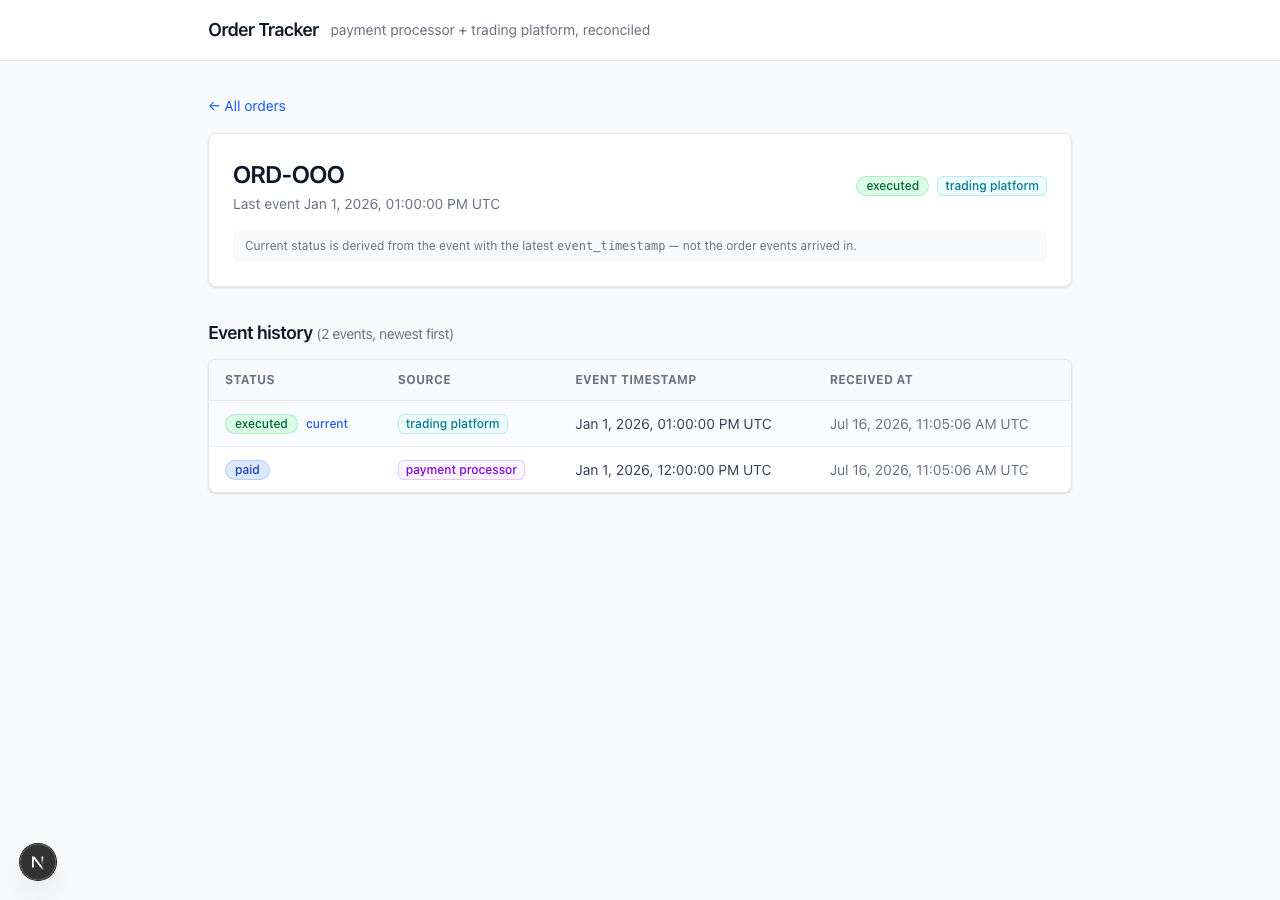
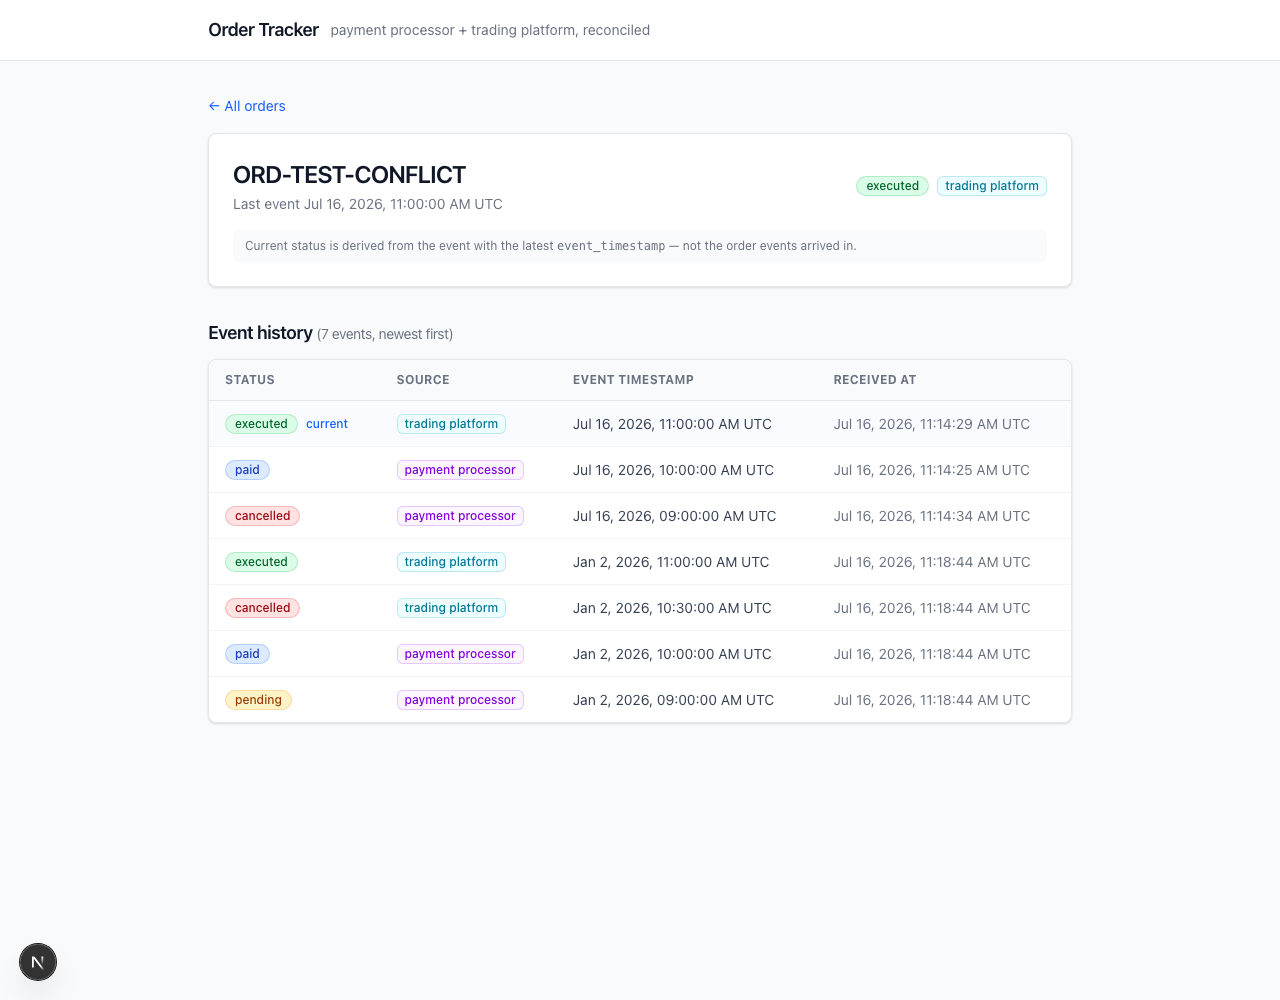
Final submission: all tests passing, duplicates/out-of-order/conflicts verified
- Honest time-spent breakdown in README (~1 hour, AI-assisted)
- Fresh screenshots: 9-order list, ORD-TEST-CONFLICT detail with 7-event
  history and winning event highlighted

diff --git a/README.md b/README.md
@@ -153,8 +153,14 @@ echo 'NEXT_PUBLIC_API_URL=http://localhost:8001/api' > order-tracker-ui/.env.loc
 
 ## Time Spent
 
-~3 hours total: backend models/ingestion/tests ≈ 1.5 h, frontend ≈ 1 h,
-smoke-testing both failure modes end-to-end + docs ≈ 0.5 h.
+~1 hour total, AI-assisted (built with Claude Code):
+
+- Project setup (Postgres via Docker, Django scaffold, Next.js scaffold) ≈ 15 min
+- Backend models, ingestion/reconciliation logic, 13 tests ≈ 20 min
+- Frontend list + detail pages ≈ 10 min
+- End-to-end verification (duplicate/out-of-order/conflict scenarios against
+  the live API, browser screenshots) + debugging a local port conflict ≈ 15 min
+- Documentation ≈ 5 min
 
 ## Tradeoffs
 